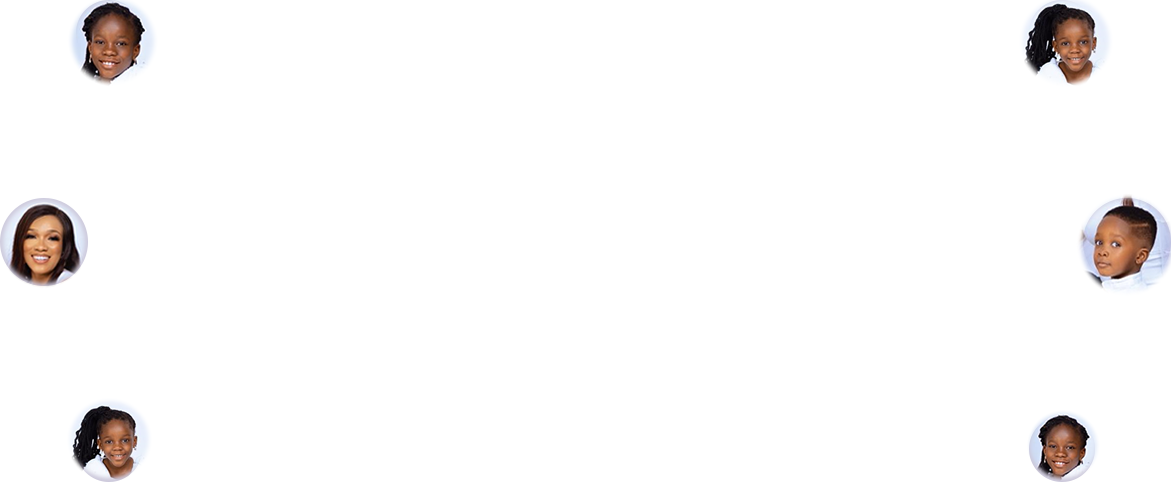
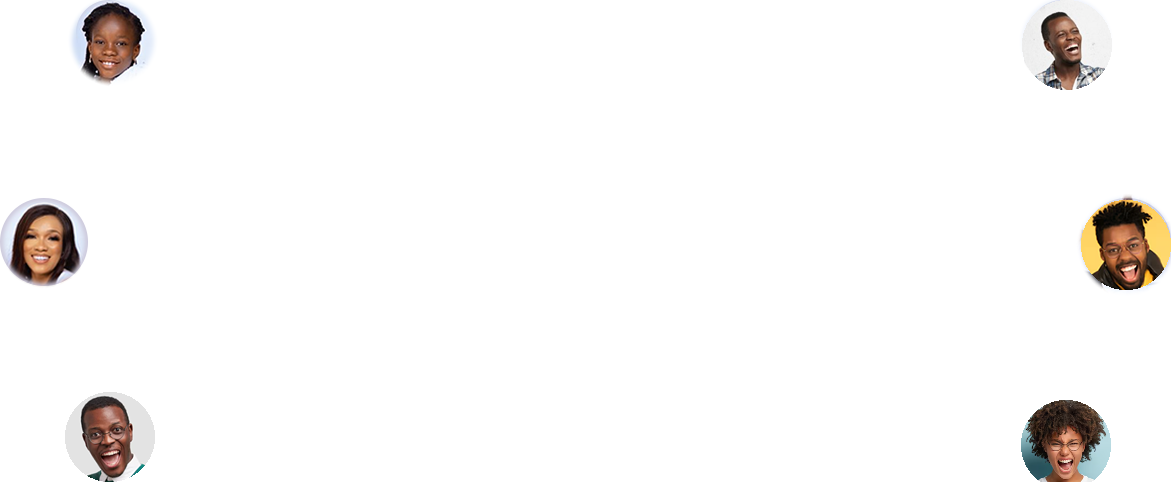
fixed bug on faq

diff --git a/resources/views/static/support.blade.php b/resources/views/static/support.blade.php
@@ -48,20 +48,30 @@
                                         style="display: flex; flex-wrap: wrap; justify-content: start; gap: 1rem; padding: 0;">
 
                                         @foreach ($howToVideos as $faq)
+                                            {{-- https://www.youtube.com/embed/tgbNymZ7vqY?autoplay=1&mute=1 --}}
                                             <li
-                                                style="flex: 1 1 45%; max-width: 45%; list-style: none; text-align: center;">
-                                                <a class="popup-youtube play-button"
-                                                    data-url="{{ $faq->answer ? json_decode($faq->answer, true)['url'] : 'https://www.youtube.com/embed/4jnzf1yj48M' }}?autoplay=1&amp;mute=1"
+                                                style="flex: 1 1 30%; max-width: 30%;  list-style: none; text-align: center;">
+                                                <a class="popup-youtube play-button" style="position:unset;"
+                                                    data-url="{{ $faq->answer ? json_decode($faq->answer, true)['url'] : 'https://www.youtube.com/embed/tgbNymZ7vqY' }}"
                                                     data-toggle="modal" data-target="#myModal" title="About Video">
-                                                    <img src="{{ asset('asset/images/about/howto.avif') }}"
-                                                        style="width: 100px; margin-bottom: 1rem;" alt="">
+                                                    <div style="object-fit:cover;">
+                                                        @if (count($faq->images))
+                                                            <img src="{{ asset('storage/faqs/images/' . $faq->images[0]->path) }}"
+                                                                alt="{{ $faq->images[0]->path }}"
+                                                                style="width:100%; margin-bottom: 1rem; max-height:300px">
+                                                        @else
+                                                            <img src="{{ asset('asset/images/about/howto.avif') }}"
+                                                                style="width: 100px; " alt="">
+                                                        @endif
+                                                    </div>
                                                     <div class="waves-block">
                                                         <div class="waves wave-1"></div>
                                                         <div class="waves wave-2"></div>
                                                         <div class="waves wave-3"></div>
                                                     </div>
+
                                                     <span class="play_icon">
-                                                        <img src="http://127.0.0.1:8000/asset/images/play_black.png"
+                                                        <img src="{{ asset('asset/images/play_black.png') }}"
                                                             alt="image">
                                                     </span>
                                                     <div>{{ $faq->question }}</div>

diff --git a/app/Http/Controllers/Admin/FaqController.php b/app/Http/Controllers/Admin/FaqController.php
@@ -85,8 +85,9 @@ class FaqController extends Controller
 
     public function store(Request $request)
     {
+        // dd($request->all());
         if ($request->category_id == 4) {
-            $data = $request->only('category_id', 'subcategory_name', 'question');
+            $data = $request->only('category_id', 'subcategory_name', 'subcategory_id', 'question');
             $faq = Faq::create($data);
 
             if ($imagePath = $this->uploadImage($request, 'faqs', \Str::slug($faq->id) . '_' . \Str::slug($faq->question))) {

diff --git a/resources/views/index.blade.php b/resources/views/index.blade.php
@@ -541,9 +541,9 @@
                 </div>
 
                 <!-- avtar faces -->
-                {{-- <div class="avtar_faces">
-            <img src="{{asset('asset/images/avtar_testimonial.png')}}" alt="image" >
-          </div> --}}
+                <div class="avtar_faces">
+                    <img src="{{ asset('asset/images/avtar_testimonial.png') }}" alt="image">
+                </div>
             </div>
         </div>
         <!-- container end -->

diff --git a/app/Http/Controllers/Admin/BlogController.php b/app/Http/Controllers/Admin/BlogController.php
@@ -23,7 +23,8 @@ class BlogController extends Controller
     public function create(Request $request)
     {
         $model = new Blog();
-        return view('admin.blogs.create', compact('model'));
+        $authors = Authur::all();
+        return view('admin.blogs.create', compact('model', 'authors'));
     }
 
     public function show(Request $request, Blog $blog)
